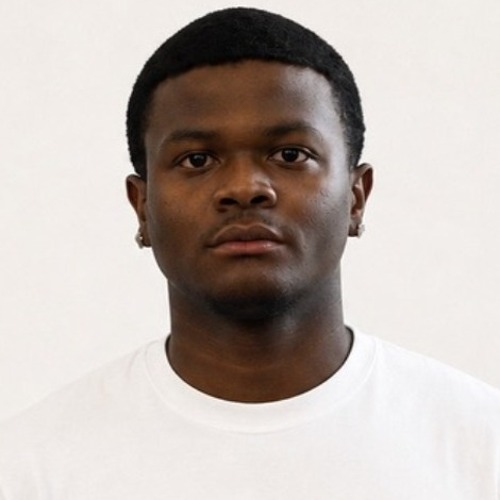
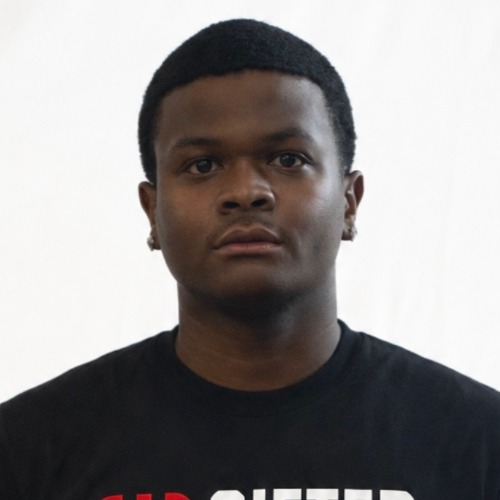
Swap Joe's headshot; fix Meet the Team band contrast, divider, and spacing
New headshot from Joe's Gifted Training photo, centered by Artemios
himself via the headshot editor tool. Meet the Team band was using the
same subtle gradient as the trainer headers (which starts from mesa-dark,
identical to the page background, so it barely showed) — switched to a
solid brown-700 with a gold border for real contrast. Restored the gold
line-and-diamond divider between trainers (replacing the full-bleed band
from the last round) and gave it its own padding so it isn't crowded
against the trainer above it. Pulled each trainer's header band up
slightly to close the excess gap under Meet the Team / the divider.

diff --git a/src/app/about/page.tsx b/src/app/about/page.tsx
@@ -204,7 +204,7 @@ export default function AboutPage() {
             reads in the same text-alongside-media layout as his "Why Mesa
             Exists" section, just with a video slot instead of a photo. */}
         {sortedTrainers.length > 0 && (
-          <div className="relative left-1/2 right-1/2 -mx-[50vw] w-screen overflow-hidden bg-gradient-to-br from-mesa-dark via-brown-900 to-brown-800">
+          <div className="relative left-1/2 right-1/2 -mx-[50vw] w-screen overflow-hidden bg-brown-700 border-y border-mesa-accent/30">
             <div className="mx-auto max-w-6xl px-6 py-12 text-center">
               <h2 className="font-[family-name:var(--font-fira-cond)] text-4xl md:text-5xl font-black tracking-wide text-mesa-accent">
                 MEET THE TEAM
@@ -215,13 +215,22 @@ export default function AboutPage() {
         {sortedTrainers.length > 0 && sortedTrainers.map((trainer, i) => (
           <Fragment key={trainer.slug}>
             {i > 0 && (
-              <div className="relative left-1/2 right-1/2 -mx-[50vw] w-screen overflow-hidden bg-gradient-to-br from-mesa-dark via-brown-900 to-brown-800 py-6" />
+              <div className="py-4">
+                <div className="flex items-center gap-4">
+                  <div className="h-px flex-1 bg-gradient-to-r from-transparent to-mesa-accent/70" />
+                  <div className="h-2 w-2 rotate-45 bg-mesa-accent" />
+                  <div className="h-px flex-1 bg-gradient-to-l from-transparent to-mesa-accent/70" />
+                </div>
+              </div>
             )}
             <section id={trainer.slug} className="scroll-mt-20">
             {/* Full-bleed gradient band behind the headshot/name/pills, matching
                 Artemios's own hero section above — breaks out of <main>'s
-                max-w-4xl to span the full viewport width. */}
-            <div className="relative left-1/2 right-1/2 -mx-[50vw] w-screen overflow-hidden bg-gradient-to-br from-mesa-dark via-brown-900 to-brown-800 py-20 md:py-28 mb-10">
+                max-w-4xl to span the full viewport width. Pulled up slightly
+                (-mt-8) to tighten the gap under the Meet the Team band / the
+                divider above each trainer — space-y-16 on <main> alone left
+                too much empty space before "TRAINER" ever appears. */}
+            <div className="relative left-1/2 right-1/2 -mx-[50vw] w-screen overflow-hidden bg-gradient-to-br from-mesa-dark via-brown-900 to-brown-800 py-20 md:py-28 mb-10 -mt-8">
               <div className="mx-auto max-w-6xl px-6 flex flex-col items-center text-center">
                 <p className="mb-4 text-sm font-semibold uppercase tracking-widest text-mesa-accent">
                   {trainer.title}
